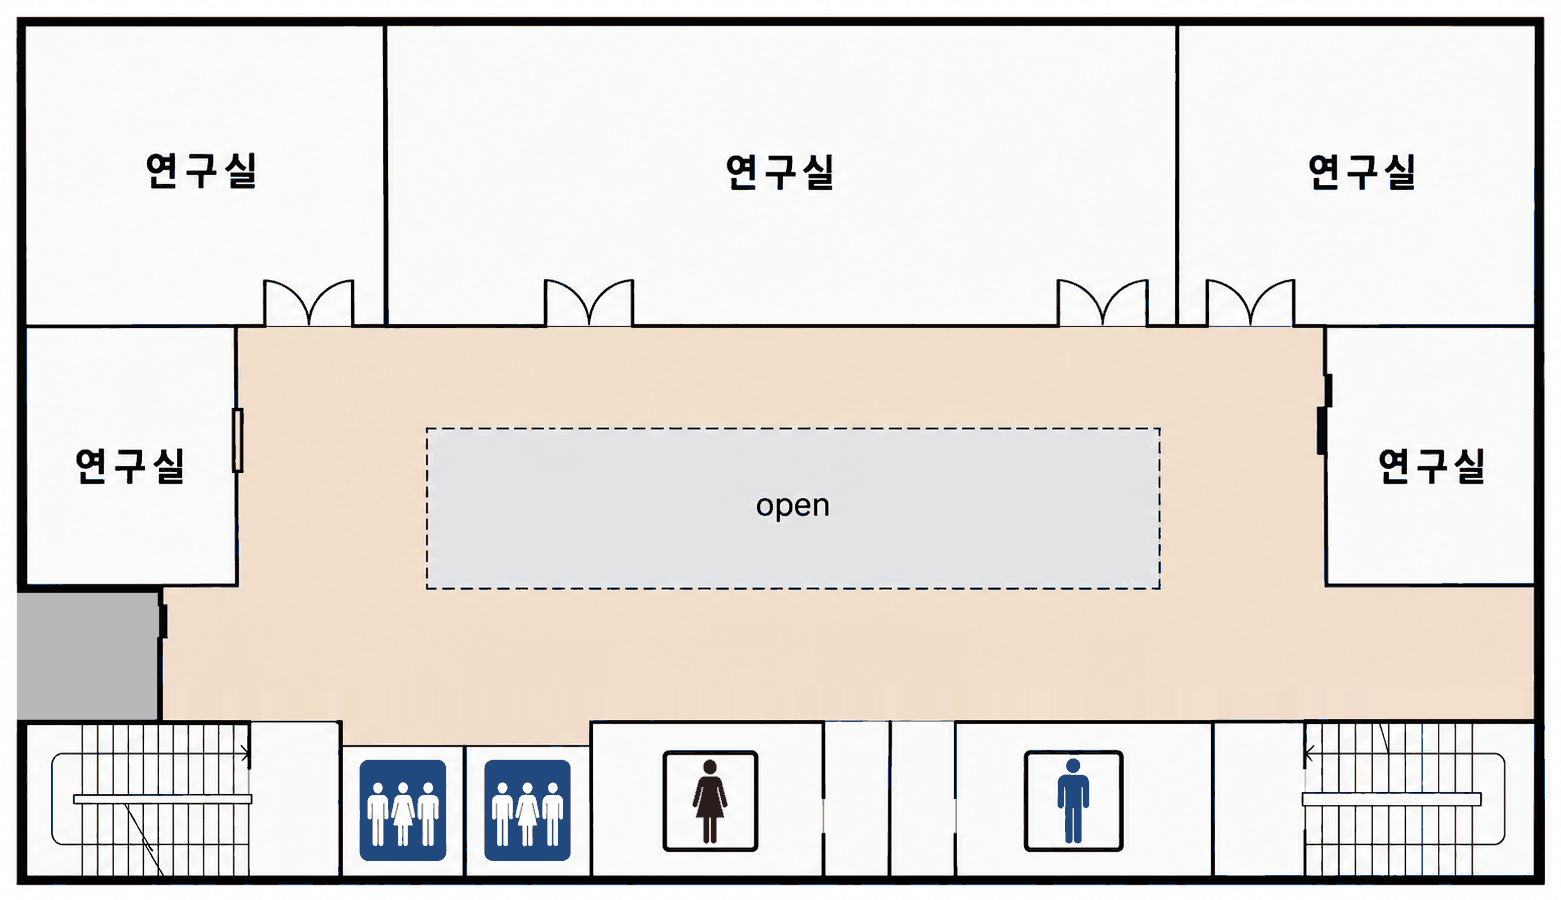
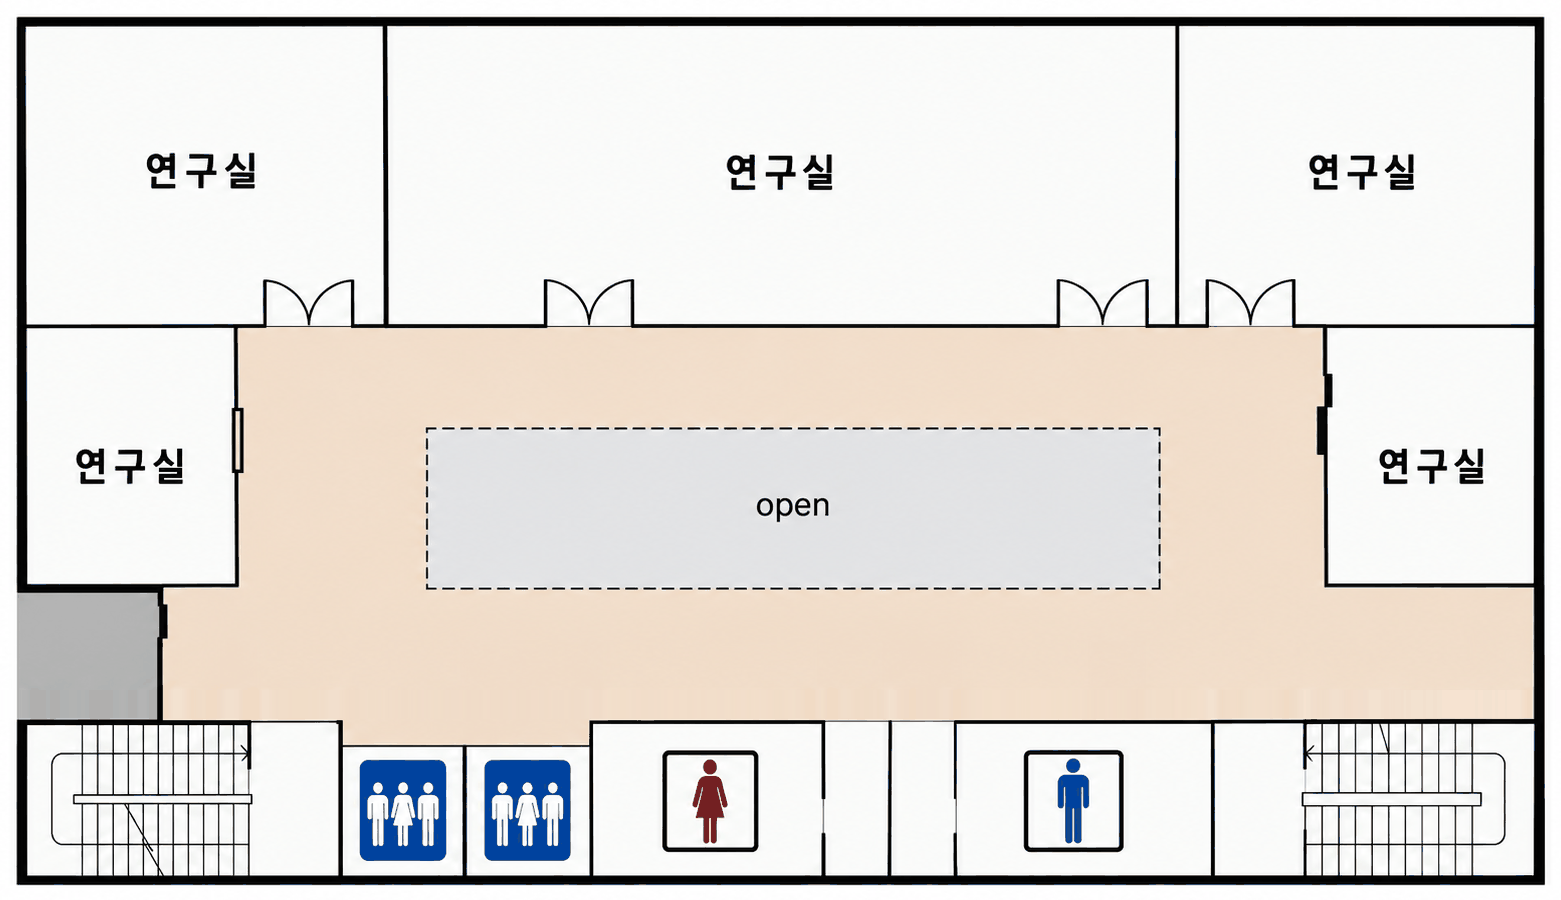
지도가 흐릿하던 것을 고친다 — v2.13.1
도면 원본은 1700px 인데 화면에서는 600px 쯤으로 줄어든다. Image.asset 의
기본 품질로 그만큼 줄이면 글자가 뭉개져, 방 이름이 안 읽힌다. 시연에서
"저 점이 몇 호 앞이냐" 를 보려면 이름이 읽혀야 한다.

- filterQuality 를 medium 으로. 기본값은 가장 거친 것이다
- 높이 제한을 320 -> 440 으로
- 머리줄에 '크게 보기'. 눌러 화면 가득 띄우고 손가락으로 넓혀 볼 수 있다
- 도면 색을 64 -> 192 로. 글자 가장자리가 64색에서는 계단처럼 깨졌다.
  셋 합쳐 1.4MB 인데, 배차 화면을 열 때만 받으므로 첫 로딩에는 안 얹힌다

Changed region(s): [[0.2152, 0.84, 0.369, 0.9644], [0.6765, 0.84, 0.7072, 0.9333], [0.4305, 0.84, 0.4612, 0.9333]]

diff --git a/lib/widgets/robot_map_view.dart b/lib/widgets/robot_map_view.dart
@@ -32,7 +32,7 @@ class _RobotMapViewState extends State<RobotMapView> {
   /// 안 막으면 도면이 가로폭을 꽉 채우며 세로로도 같이 커져서, 배차 화면에
   /// 들어오자마자 요청 목록이 화면 밖으로 밀려난다. 배차 화면의 주인공은
   /// 요청 목록이고 지도는 곁들이다.
-  static const double _maxHeight = 320;
+  static const double _maxHeight = 440;
 
   Timer? _tick;
   bool _open = true;
@@ -161,7 +161,14 @@ class _RobotMapViewState extends State<RobotMapView> {
                     child: Stack(
                       children: [
                         Positioned.fill(
-                          child: Image.asset(floor.asset, fit: BoxFit.fill),
+                          // 기본 품질로 줄이면 글자가 뭉개진다. 도면은
+                          // 원본이 1700px 인데 화면에서는 600px 쯤으로
+                          // 줄어들어, 방 이름이 읽히느냐가 여기서 갈린다.
+                          child: Image.asset(
+                            floor.asset,
+                            fit: BoxFit.fill,
+                            filterQuality: FilterQuality.medium,
+                          ),
                         ),
                         if (spot != null)
                           AnimatedPositioned(
@@ -183,6 +190,55 @@ class _RobotMapViewState extends State<RobotMapView> {
     );
   }
 
+  /// 도면을 화면 가득. 방 이름을 읽어야 할 때 쓴다.
+  void _showBig(FloorMap floor) {
+    showDialog<void>(
+      context: context,
+      builder: (ctx) => Dialog(
+        insetPadding: const EdgeInsets.all(16),
+        backgroundColor: Colors.white,
+        shape: RoundedRectangleBorder(borderRadius: BorderRadius.circular(16)),
+        child: Column(
+          mainAxisSize: MainAxisSize.min,
+          children: [
+            Padding(
+              padding: const EdgeInsets.fromLTRB(18, 12, 8, 8),
+              child: Row(
+                children: [
+                  Text(
+                    floor.label,
+                    style: const TextStyle(
+                      color: AppColors.ink,
+                      fontSize: 15,
+                      fontWeight: FontWeight.w900,
+                    ),
+                  ),
+                  const Spacer(),
+                  IconButton(
+                    onPressed: () => Navigator.pop(ctx),
+                    icon: const Icon(Icons.close_rounded),
+                    tooltip: '닫기',
+                  ),
+                ],
+              ),
+            ),
+            Flexible(
+              // 손가락으로 끌고 넓혀 볼 수 있게 한다.
+              child: InteractiveViewer(
+                maxScale: 5,
+                child: Image.asset(
+                  floor.asset,
+                  filterQuality: FilterQuality.high,
+                ),
+              ),
+            ),
+            const SizedBox(height: 12),
+          ],
+        ),
+      ),
+    );
+  }
+
   Widget _bar(FloorMap floor, String? note) {
     return InkWell(
       onTap: () => setState(() => _open = !_open),
@@ -198,6 +254,31 @@ class _RobotMapViewState extends State<RobotMapView> {
                 color: AppColors.ink,
                 fontSize: 13.5,
                 fontWeight: FontWeight.w800,
+              ),
+            ),
+            const SizedBox(width: 10),
+            // 줄여 놓으면 방 이름이 안 읽힌다. 크게 볼 길을 둔다.
+            InkWell(
+              onTap: () => _showBig(floor),
+              borderRadius: BorderRadius.circular(6),
+              child: const Padding(
+                padding: EdgeInsets.symmetric(horizontal: 6, vertical: 3),
+                child: Row(
+                  mainAxisSize: MainAxisSize.min,
+                  children: [
+                    Icon(Icons.zoom_out_map_rounded,
+                        size: 15, color: AppColors.brand),
+                    SizedBox(width: 4),
+                    Text(
+                      '크게 보기',
+                      style: TextStyle(
+                        color: AppColors.brand,
+                        fontSize: 12.5,
+                        fontWeight: FontWeight.w800,
+                      ),
+                    ),
+                  ],
+                ),
               ),
             ),
             if (note != null) ...[

diff --git a/lib/app_version.dart b/lib/app_version.dart
@@ -12,4 +12,4 @@
 ///   2.x.x  앞자리 — 간호과에 넘긴 큰 배포. '2차 버전'이 2.0.0 이다.
 ///   x.1.x  가운뎃자리 — 기능이 늘었을 때
 ///   x.x.1  뒷자리 — 버그만 고쳤을 때
-const String appVersion = '2.13.0';
+const String appVersion = '2.13.1';

diff --git a/BUILD.md b/BUILD.md
@@ -57,6 +57,7 @@ git push origin v2.1.0
 | `v2.12.0` | 2026-10-23 | 환자 상세에서 지난 날짜 보기 + 경보를 그날 것만 |
 | `v2.12.1` | 2026-10-23 | 내보내기 대화상자가 고른 날짜를 전날로 적던 것 수정 |
 | `v2.13.0` | 2026-11-02 | 스마트돌봄스페이스 지도 추가 (시연용) |
+| `v2.13.1` | 2026-11-02 | 지도가 흐릿하던 것 수정 + 크게 보기 |
 
 > `v2.1.0` 은 배포한 뒤 태그를 빠뜨려 2026-09-17 에 뒤늦게 달았다. 어느
 > 코드가 나갔는지는 `build/web/version.json`(2.1.0+4)과 `.firebase` 배포
